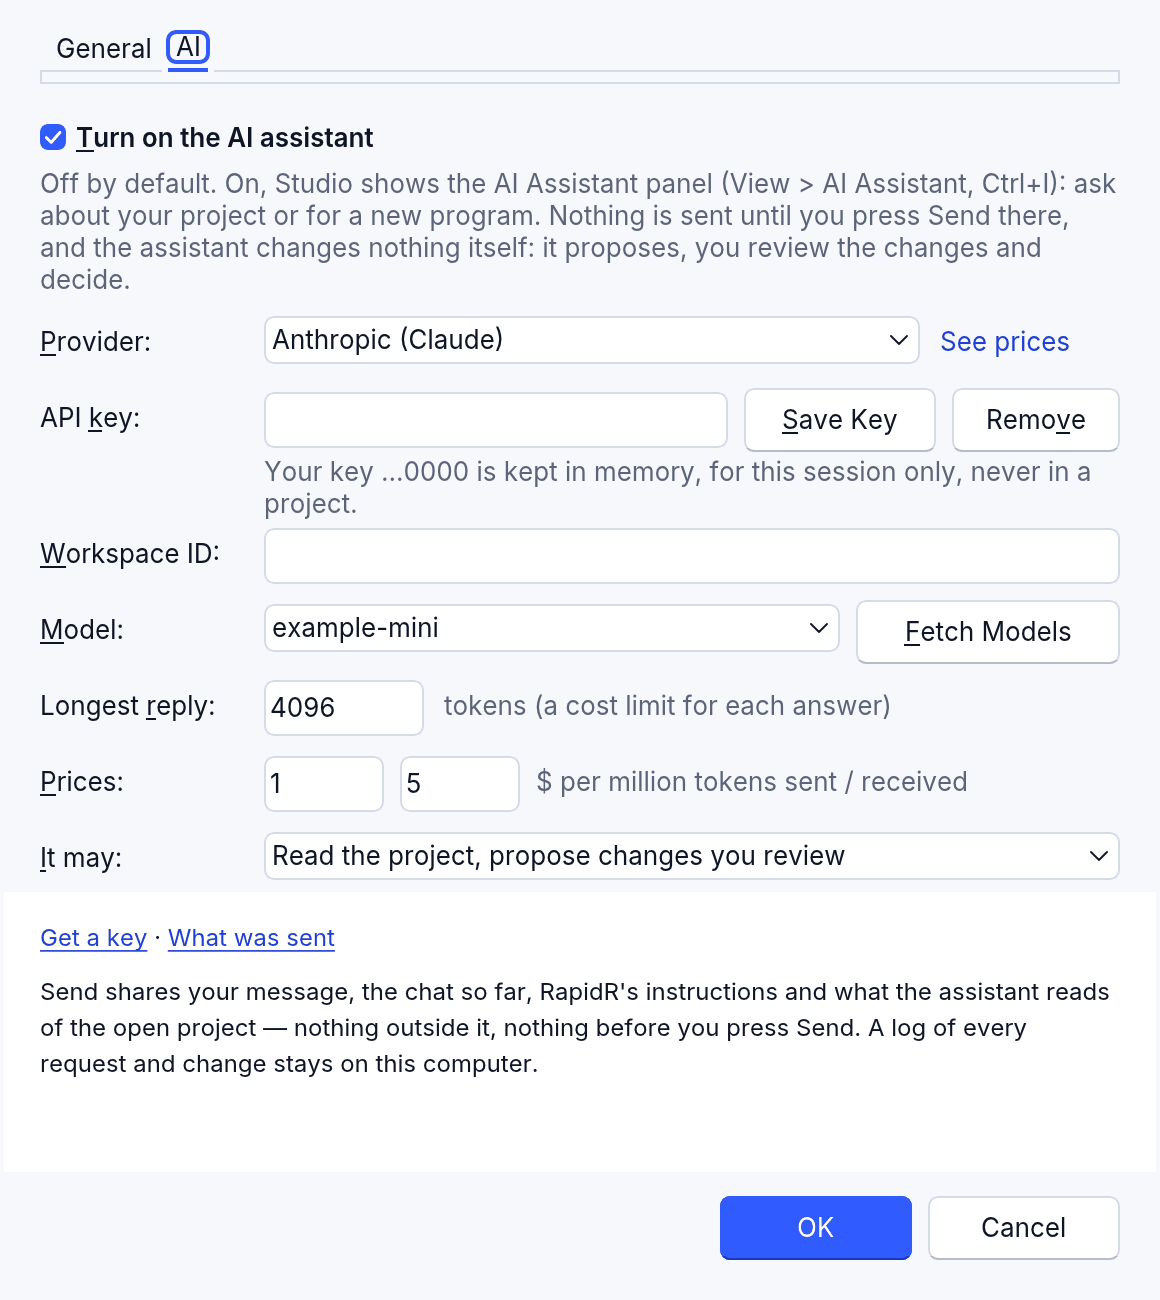
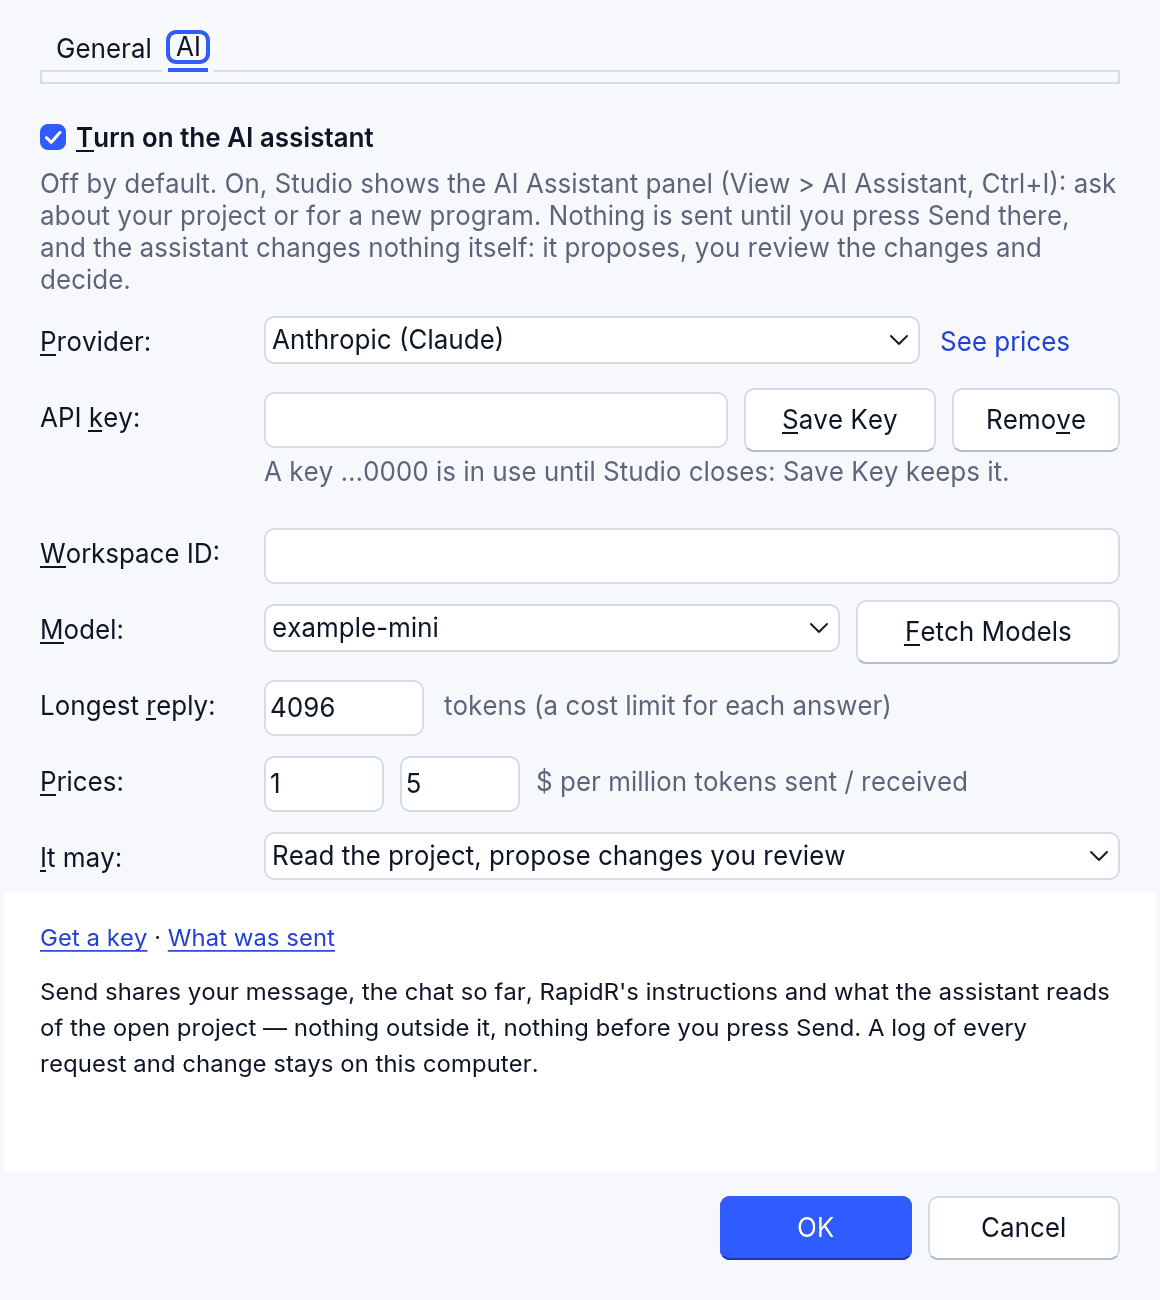
AI-PROVIDERS: a key written into a project file is replaced before the assistant reads it; KeyStore says where the key in use is (the keychain, the tab, the program's memory), so Settings and the designer say it right on the web too; Settings on the web gives "Remember on this device" a row of its o

Changed region(s): [[0.2172, 0.3385, 0.931, 0.4]]

diff --git a/crates/rapidr-ai/src/keys.rs b/crates/rapidr-ai/src/keys.rs
@@ -218,6 +218,20 @@ fn session_words() -> &'static str {
     }
 }
 
+/// Where a key from `source` is, in words; with none, where
+/// `RememberKey(False)` keeps one (the keychain; on the web, the tab).
+pub fn where_kept(source: Source) -> String {
+    match source {
+        Source::Session if memory_only() => store_name(),
+        Source::Session => session_words().into(),
+        Source::Program => "this program's memory, until it ends".into(),
+        Source::Environment => "an environment variable".into(),
+        Source::Stored => store_name(),
+        Source::None if cfg!(target_arch = "wasm32") => session_words().into(),
+        Source::None => store_name(),
+    }
+}
+
 /// Where keys are kept here, in words ("the macOS Keychain").
 pub fn store_name() -> String {
     if memory_only() {
@@ -334,6 +348,31 @@ fn words(code: &str) -> Vec<&str> {
             v
         })
         .collect()
+}
+
+/// `text` with every key-shaped word replaced (what an AI's tools read of
+/// a project: a key a developer wrote into a file never reaches a model).
+pub fn redact(text: &str) -> String {
+    let mut out = String::with_capacity(text.len());
+    let mut word = String::new();
+    let flush = |out: &mut String, word: &mut String| {
+        if looks_like_key(word) {
+            out.push_str("(an API key, not shown)");
+        } else {
+            out.push_str(word);
+        }
+        word.clear();
+    };
+    for c in text.chars() {
+        if c.is_ascii_alphanumeric() || c == '-' || c == '_' {
+            word.push(c);
+        } else {
+            flush(&mut out, &mut word);
+            out.push(c);
+        }
+    }
+    flush(&mut out, &mut word);
+    out
 }
 
 /// A string that is, by its look, a provider's key (`sk-…`, `sk-ant-…`,
@@ -503,6 +542,16 @@ mod tests {
         assert!(build_warnings("' APIKey = \"sk-ant-0123456789abcdefghijkl\"\nAI.APIKey = \"\"\nPRINT \"sk-short\"", false).is_empty());
         let never = build_warnings("DIM AI AS RAI\nAI.APIKeySource = \"env:OPENAI_API_KEY\"", true);
         assert!(never[0].contains("doesn't \"ask\""), "{never:?}");
+    }
+
+    #[test]
+    fn keys_in_files_are_redacted() {
+        let text = "AI.APIKey = \"sk-proj-abcdefghijklmnopqrstuvwxyz\"\nOPENAI_API_KEY=sk-ant-api03-0123456789abcdefghij\nPRINT \"sk-short\"\n";
+        let r = redact(text);
+        assert!(!r.contains("abcdefghij") && !r.contains("0123456789"), "{r}");
+        assert_eq!(r.matches("(an API key, not shown)").count(), 2, "{r}");
+        assert!(r.contains("PRINT \"sk-short\""), "{r}");
+        assert_eq!(redact("no keys here: café"), "no keys here: café");
     }
 
     /// The real keychain, under a test service (never RapidR's own): set,

diff --git a/crates/rapidr-ai/src/rai.rs b/crates/rapidr-ai/src/rai.rs
@@ -712,7 +712,7 @@ pub fn get(name: &str, prop: &str) -> Option<Value> {
             "keyhint" => s(a.key().0.map(|k| keys::hint(&k)).unwrap_or_default()),
             "keysource" => s(a.key().1.as_str()),
             "keyenv" => s(p.map_or("", |p| p.env_key)),
-            "keystore" => s(keys::store_name()),
+            "keystore" => s(keys::where_kept(a.key().1)),
             "needskey" => flag(p.is_some_and(|p| p.needs_key)),
             "pricingurl" => s(p.map_or("", |p| p.pricing_url)),
             "keysurl" => s(p.map_or("", |p| p.keys_url)),

diff --git a/crates/rapidr-studio/src/ai_tools.rs b/crates/rapidr-studio/src/ai_tools.rs
@@ -280,6 +280,8 @@ fn read_file(input: &Json, p: &Project) -> Outcome {
     };
     match p.text(&rel) {
         Ok(text) => {
+            // (a key a developer wrote into a file never reaches the model)
+            let text = rapidr_ai::keys::redact(&text);
             let (text, cut) = clip(&text);
             let lines = text.lines().count();
             let mut out = untrusted(&format!("file:{rel}"), json!(text));

diff --git a/docs/ai-architecture.md b/docs/ai-architecture.md
@@ -458,7 +458,7 @@ Lane AI-PROVIDERS. User-facing: [docs/manual/ai-assistant.md](manual/ai-assistan
 
 **No model ID anywhere in code.** Providers are a table of endpoints and formats (`provider.rs`: Anthropic Messages; OpenAI, DeepSeek and OpenAI-compatible Chat Completions, with Ollama / LM Studio / xAI / OpenRouter presets). Models come from the provider's live list (`RefreshModels`; OpenAI's filtered to the models that can chat); nothing is chosen for the user; Studio remembers the pick per provider and asks again when it disappears. A non-binding hint comes from the words of the name only (`wire::model_hint`: mini / nano / flash / lite / haiku / luna / small → "fast · low cost", listed first; opus / pro / fable / mythos → "costs more"). One price link per provider (`PricingURL`, checked 2026-10-15). Wire quirks are negotiated from the provider's answer, not from model names (OpenAI's reasoning models refusing tools unless `reasoning_effort` is `none`: retried once).
 
-**Keys by reference.** `APIKeySource = "keychain:NAME|env:VAR|ask"` (the first that has one): the OS keychain through keyring-core and its Apple / Windows / Secret Service stores (MIT / Apache), environment variables read never written, `ask` → `OnKeyNeeded`. `APIKey` is write-only (reads `""`), `secret` in the registry: the inspector masks it and never writes it into code — in the designer a typed key goes to the developer's keychain as `RapidR/<project>/<component>` and the source gets only `APIKeySource = "keychain:…|ask"`. On the web: the tab's session, or the page's storage after `RememberKey(True)` (with the warning). Builds warn about a key written in a program (`keys::build_warnings`: an `APIKey = "…"` or a key-shaped string) and explain RAI on a web page; a web page's CSP gains `connect-src https:` and this machine's `http://localhost:*` / `http://127.0.0.1:*` when the program uses RAI. Requests shown (`LastRequest`, *What Was Sent*) have the key replaced; the audit log never has it (checked with a canary test over the diff, the commits, the captures and the real runs' logs).
+**Keys by reference.** `APIKeySource = "keychain:NAME|env:VAR|ask"` (the first that has one): the OS keychain through keyring-core and its Apple / Windows / Secret Service stores (MIT / Apache), environment variables read never written, `ask` → `OnKeyNeeded`. `APIKey` is write-only (reads `""`), `secret` in the registry: the inspector masks it and never writes it into code — in the designer a typed key goes to the developer's keychain as `RapidR/<project>/<component>` and the source gets only `APIKeySource = "keychain:…|ask"`. On the web: the tab's session, or the page's storage after `RememberKey(True)` (with the warning). Builds warn about a key written in a program (`keys::build_warnings`: an `APIKey = "…"` or a key-shaped string) and explain RAI on a web page; a web page's CSP gains `connect-src https:` and this machine's `http://localhost:*` / `http://127.0.0.1:*` when the program uses RAI. A key-shaped word in a project file is replaced before `read_file` gives the file to the model (`keys::redact`), and `rapidr_get` returns `secret` properties redacted. Requests shown (`LastRequest`, *What Was Sent*) have the key replaced; the audit log never has it (checked with a canary test over the diff, the commits, the captures and the real runs' logs).
 
 **Token economy.**
 

diff --git a/docs/manual/reference/members.md b/docs/manual/reference/members.md
@@ -5107,7 +5107,7 @@ A conversation with an AI provider — Anthropic (Claude), OpenAI, DeepSeek, or 
 | `KeyHint` (read-only) | string |  | The key's last four characters ("…abcd"): all that is ever shown of it. |
 | `KeySource` (read-only) | string |  | Where the key comes from now: "program" (APIKey), "stored" (the keychain; on the web, this device), "session", "environment", or "". |
 | `KeyEnv` (read-only) | string |  | The environment variable the provider's key is usually in ("OPENAI_API_KEY"), for APIKeySource. |
-| `KeyStore` (read-only) | string |  | Where RememberKey keeps a key here, in words ("the macOS Keychain", "this browser tab, until it closes"). |
+| `KeyStore` (read-only) | string |  | Where the key in use is, in words ("the macOS Keychain", "this browser tab, until it closes", "this program's memory, until it ends"); with no key, where RememberKey keeps one. |
 | `NeedsKey` (read-only) | bool |  | True when Provider needs an API key (a local server doesn't). |
 | `PricingURL` (read-only) | string |  | The provider's prices ("" for a compatible server). |
 | `KeysURL` (read-only) | string |  | Where a key is made at the provider. |

diff --git a/docs/manual/ai-assistant.md b/docs/manual/ai-assistant.md
@@ -63,6 +63,8 @@ provider, a key (when the provider needs one) and a model.
 **Remember on this device** keeps it in the browser's storage for Studio's
 page instead — anyone who uses this browser profile could read it there.
 
+![The AI settings in Studio on the web: Remember on this device, under the key](images/ai/settings-web.png)
+
 ## Asking
 
 **View > AI Assistant** (Ctrl+I; the ✦ button on the toolbar) shows the
@@ -132,7 +134,9 @@ browser's storage for the page (its last 500). It never holds your key.
   changes you review (or only answer, with *Only read the project*).
 - **At most 25 tool uses** for one question; Stop works at any time.
 - **Keys** are never written into a project, a build, a log, the audit log
-  or a screenshot of RapidR's.
+  or a screenshot of RapidR's. A key someone wrote into a file of the
+  project is replaced by *(an API key, not shown)* before the assistant
+  reads the file.
 - **A model on your own computer** (Ollama, LM Studio): nothing leaves it.
 
 ## Tokens: what makes a question cheap
